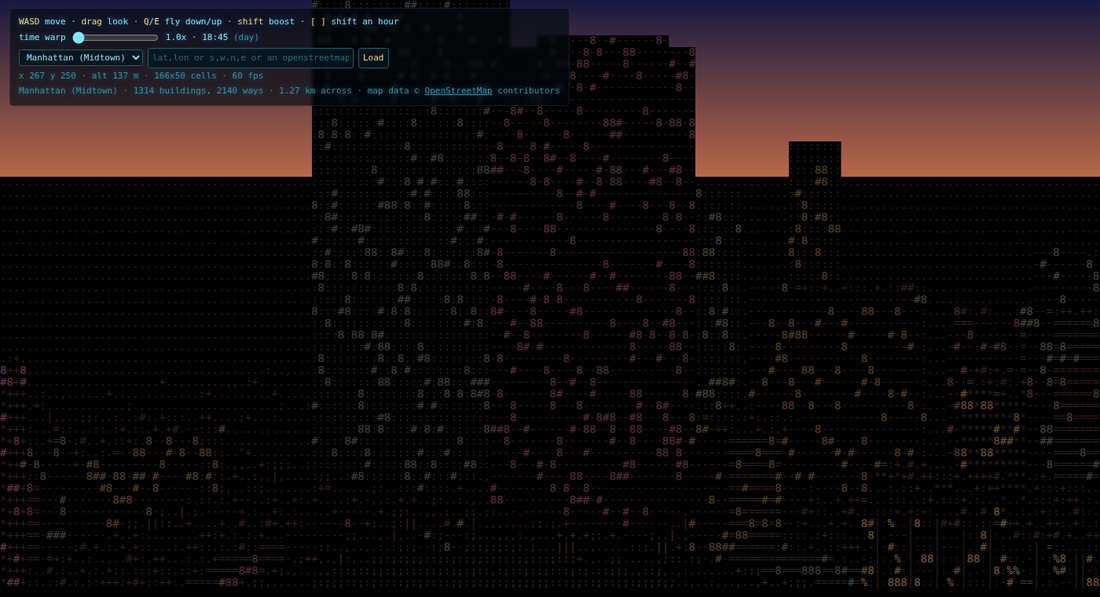
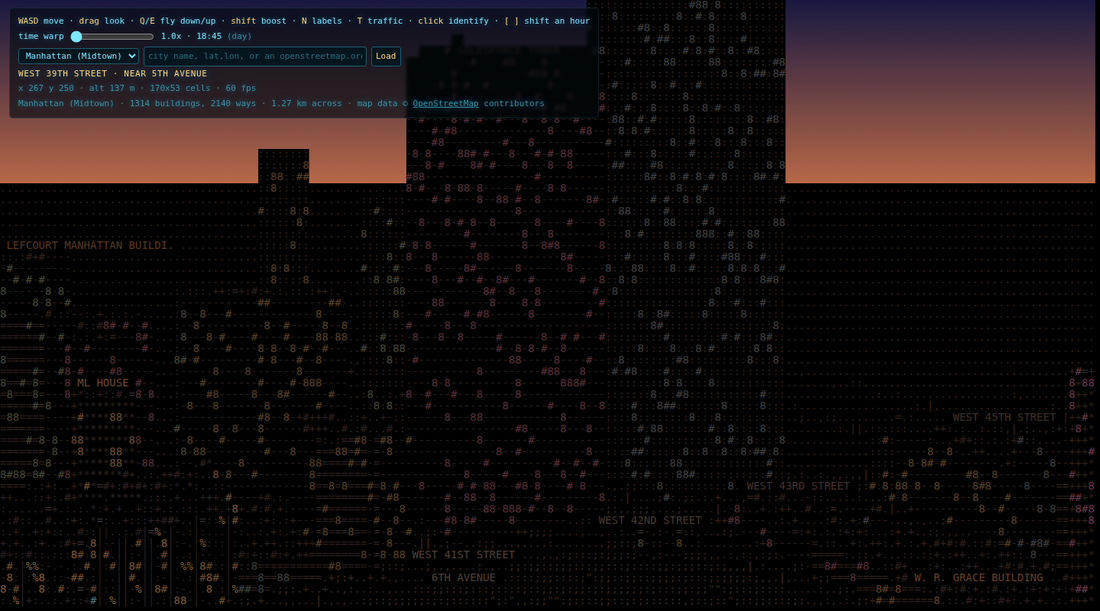
Bring the documentation and screenshots up to date
Every screenshot in the README was captured before the mirrored-view fix, so
they all showed the world backwards. Recaptured, and the hero recomposed:
the skyline moved to the other side of the frame, so the title moved with it.

Also corrects the test count, which said 120 and is now 144, and documents the
points-of-interest layer, which shipped without a mention.

Cuts 1.1.0 in the changelog. package.json already claimed that version while
everything sat under Unreleased, which was inconsistent.

Changed region(s): [[0.0, 0.0, 1.0, 0.995], [0.0, 0.392, 0.1545, 0.5126]]

diff --git a/README.md b/README.md
@@ -58,8 +58,9 @@ map data: street names, building names, heights, addresses, construction dates.
   link, name themselves as you approach.
 - Click anything. A building gives its name, type, real height and floor
   count, address, year built and distance, plus a Wikipedia summary for the
-  roughly one building in nine that has one. The ground gives the street. The
-  sky gives the star, planet or the Moon, with its phase.
+  roughly one building in nine that has one. The ground gives the street, or a
+  named cafe, shop or subway entrance if you clicked near one. The sky gives
+  the star, planet or the Moon, with its phase.
 
 In one square kilometre of Midtown Manhattan that is 296 named buildings, 148
 with Wikipedia articles, 987 street addresses and 184 named main arteries,
@@ -140,7 +141,7 @@ thousand times per frame.
 ## Tools
 
 ```bash
-npm test                                  # 120 tests, no network
+npm test                                  # 144 tests, no network
 node tools/render-frame.js --z 60 --pitch 15    # render a frame as text
 node tools/map-preview.js --city london         # top-down map of an import
 ```

diff --git a/CHANGELOG.md b/CHANGELOG.md
@@ -7,6 +7,8 @@ and this project adheres to [Semantic Versioning](https://semver.org/spec/v2.0.0
 
 ## [Unreleased]
 
+## [1.1.0] - 2026-08-16
+
 ### Added
 - **Type a city name.** The location box accepts "Kyoto" as well as
   coordinates and map links, resolved through Nominatim with Photon as a
@@ -155,6 +157,7 @@ change after this point is a reviewable diff against a known-good starting state
   as depth-sorted sprites with direction-dependent headlights and tail lights.
 - WASD movement with drag-look, at a fixed eye height.
 
-[Unreleased]: https://github.com/tweakyourpc/ascii-city/compare/v1.0.0...HEAD
+[Unreleased]: https://github.com/tweakyourpc/ascii-city/compare/v1.1.0...HEAD
+[1.1.0]: https://github.com/tweakyourpc/ascii-city/compare/v1.0.0...v1.1.0
 [1.0.0]: https://github.com/tweakyourpc/ascii-city/compare/v0.1.0...v1.0.0
 [0.1.0]: https://github.com/tweakyourpc/ascii-city/releases/tag/v0.1.0
